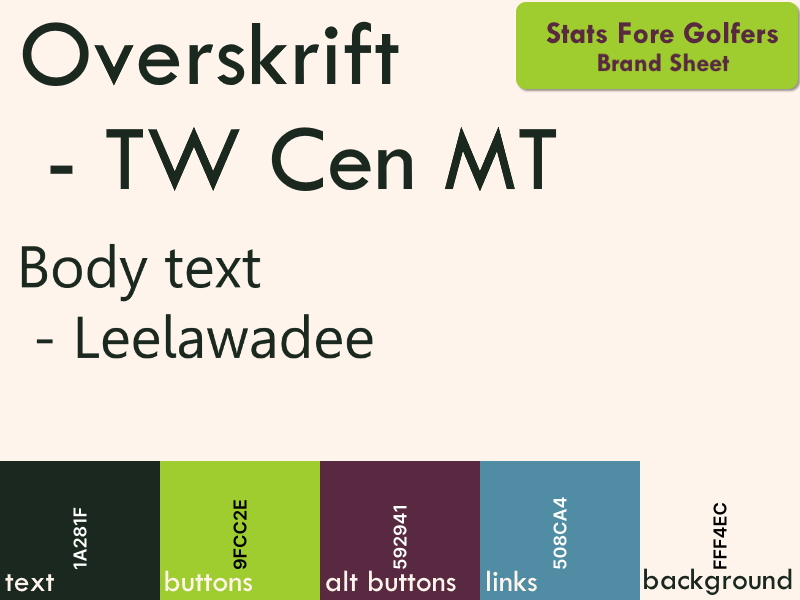
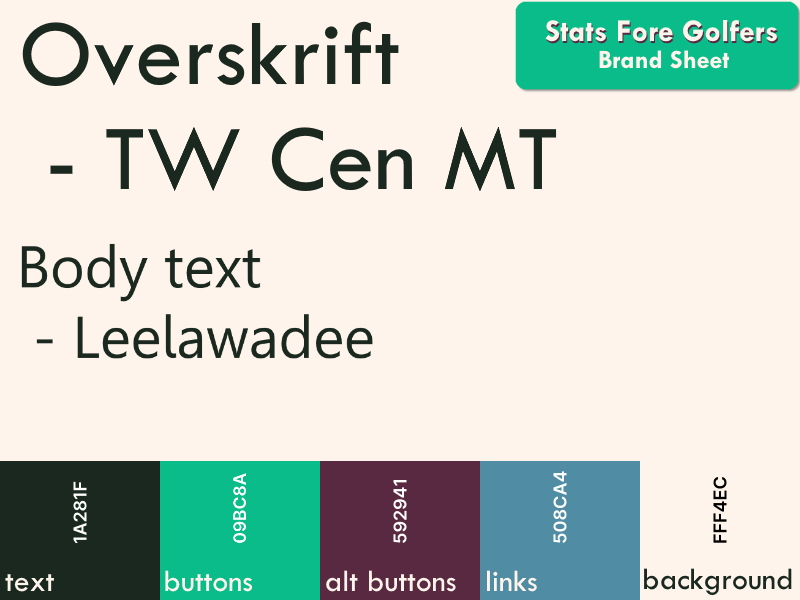
Updated branding - new green

diff --git a/StatsForeGolfers/SFGproto/Program.cs b/StatsForeGolfers/SFGproto/Program.cs
@@ -169,6 +169,7 @@ namespace SFGproto
             #endregion
         }
 
+        // THIS WILL BECOME A TOGGLE 
         static void HitOrMissGreen()
         {
             Console.WriteLine($"Hit or miss on this hole. Green. H) Hit - M) Miss");
@@ -195,6 +196,8 @@ namespace SFGproto
 
             statSheet.TotalGreenStrokes++;
         }
+
+        // THIS WILL BECOME A TOGGLE
         static void HitOrMissFairway()
         {
             Console.WriteLine($"Hit or miss on this hole. Fair Way. H) Hit - M) Miss");
